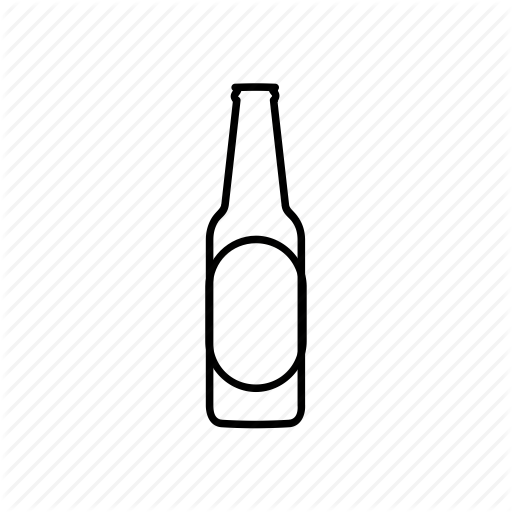
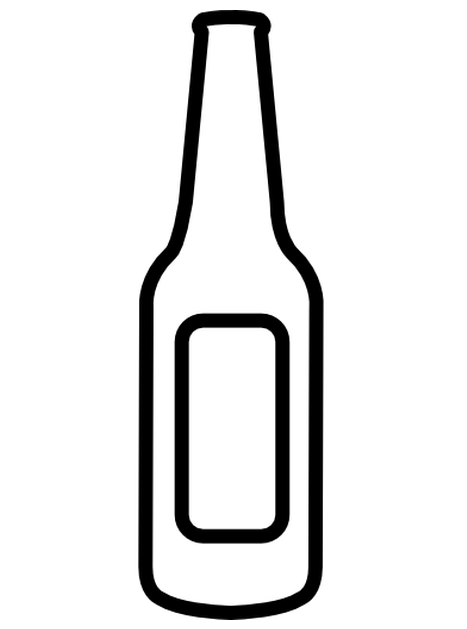
style changes to events page

Changed region(s): [[0.2698, 0.0, 0.7195, 1.0]]

diff --git a/event-page.html b/event-page.html
@@ -56,19 +56,19 @@
 
     <div class="drinks-btn-group">
         <button class="drinks-btn-container" onclick="addDrink()">
-            <img src="images/beericon.png" alt="Beer Icon">
+            <img src="images/beericon.png" alt="Beer Icon" class="drink-img">
             <div class="drinks-btn-info">
                 Beer
             </div>
         </button>
         <button class="drinks-btn-container" onclick="addDrink()">
-            <img src="wineicon.jpg" alt="Wine Icon">
+            <img src="images/wineicon.png" alt="Wine Icon" class="drink-img">
             <div class="drinks-btn-info">
                 Wine
             </div>
         </button>
         <button class="drinks-btn-container" onclick="addDrink()">
-            <img src="liquoricon.jpg" alt="Liquor Icon">
+            <img src="images/liquoricon.png" alt="Liquor Icon" id="liquor-img">
             <div class="drinks-btn-info">
                 Liquor
             </div>

diff --git a/css/style.css b/css/style.css
@@ -99,20 +99,30 @@ body{
     background-color: white;
     width: 33%;
     margin: 5px;
+    padding: 10px 0px 10px 0px;
 }
 .add-buddy-button{
     font-size: 70px;
-    border-radius: 30px;
-    background-color: white;
+    border-radius: 5px;
+    background-color: lightgray;
     border: solid 2px black;
     margin: 70px;
     padding: 20px;
 }
 .exit-event-button{
     font-size: 70px;
-    border-radius: 30px;
-    background-color: white;
+    border-radius: 5px;
+    background-color: lightgray;
     border: solid 2px black;
     margin: 70px;
     padding: 20px;
+}
+.drink-img{
+    height: 75%;
+    width: 75%;
+}
+#liquor-img{
+    height: 60%;
+    width: 60%;
+    margin: 35px;
 }
